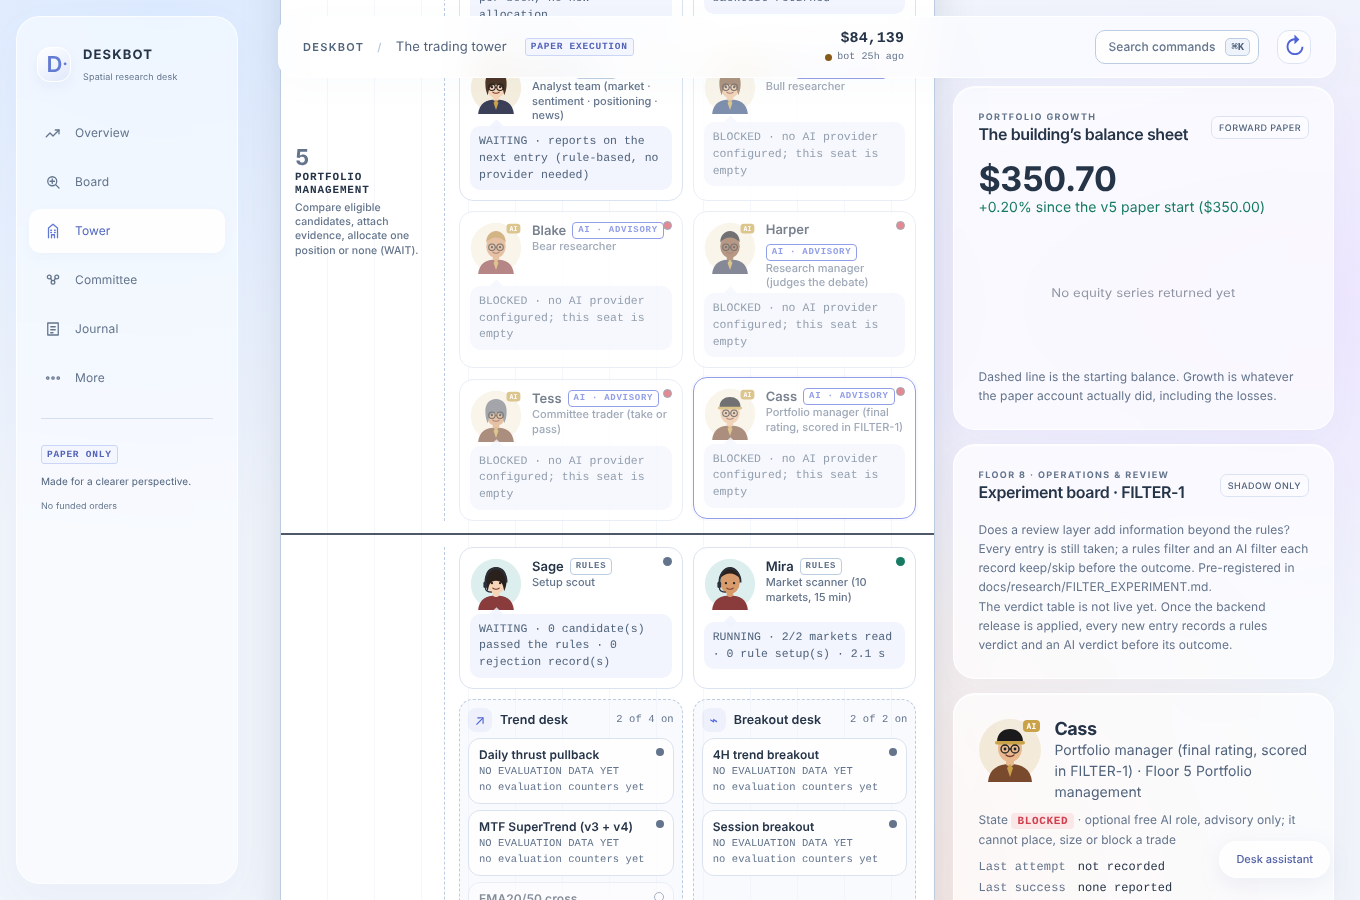
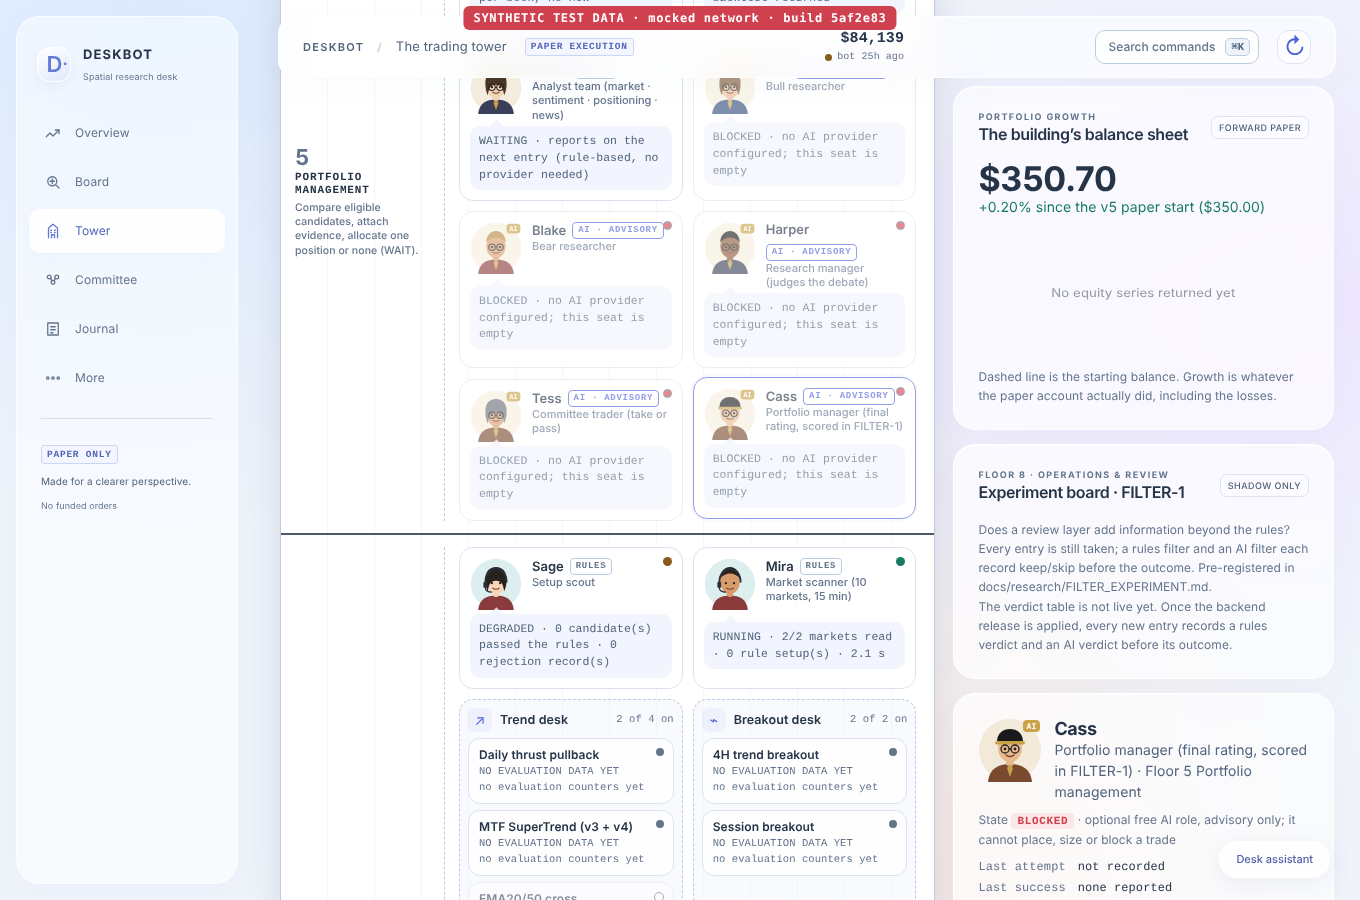
W2 revision: synthetic-labelled screenshots for 5af2e83, TASKS and EVIDENCE_LOG
Claude-Session: https://claude.ai/code/session_01AejtZvfdWPQJRLt5Q4SSCm

diff --git a/docs/control/TASKS.md b/docs/control/TASKS.md
@@ -55,12 +55,13 @@ Next: T007 replay-fidelity mismatch report (PAXG first); T008 atomic/recoverable
 
 ## W1 — Current-state audit and truthful roster (DONE 30 Oct 2026; CURRENT_STATE.md)
 
-## W2 — Theo work log and missing worker desks (IN PR; deploy + additive migration `20261030_scan_work.sql` need owner approval)
-- Objective: every material management action is recorded once. New desks reflect real workers, and their states come from runtime evidence.
-- Contracts: `worklog.ts` (pure diff, keys `<posId>:<action>:<id>`); `writeAgentRows` drops keys already logged (the per-book lease serializes runs); scan rows gain `work` telemetry; status gains `ai` flags (booleans and provider names only).
-- Acceptance: a retry from the same state adds no row and changes no trade (handler test). Missing AI credentials show BLOCKED with the exact reason (tower test). Event-driven waiting shows WAITING. Absent telemetry shows UNKNOWN.
-- Rollback: redeploy the edge entry pinned to `3e25392`. The migration is additive and needs no rollback; the code tolerates the column being absent.
-- Known limits: dedupe is code-level (no DB unique constraint on agent log keys). Last attempt is not recorded per worker; it is shown as "not recorded". Stella still has no backend.
+## W2 — Theo work log and missing worker desks (IN PR #19, revised after review of 33af114; deploy + additive migration need owner approval)
+- Objective: every material management action is recorded exactly once, and every tower state comes from runtime evidence.
+- Identity: exits by bar time; announced trade-manager actions by 5m bar + sequence + kind + text fingerprint; unannounced net field changes by bar + from->to (attributed:false); close; failure by stuck bar.
+- Completeness (narrowed): announced actions and every exit are individual records. Silent TP2/TP3 moves and other unexplained changes are one net record per run. Intermediate values inside one run are not reconstructed.
+- Persistence: records sit in a state outbox saved in the same write as the management, then are inserted with ON CONFLICT (work_key) DO NOTHING. The outbox is cleared only after a confirmed insert; a failed write raises an ERROR event and retries next run. Without the migration the writer falls back to check-then-insert.
+- Acceptance tests: tower_workers_rev.test.ts (issues 1-5), worklog_identity.test.ts (issue 6), desk_handler persistence tests (issue 7), scripts/sql_test/work_key.sh (real PostgreSQL concurrency).
+- Rollback: re-pin the edge entry to 3e25392; Vercel instant-rollback to dpl_2V5vuDPQndNEG94J3mKmCDEYk2U7. The migration is additive and is left in place.
 
 ## W3 — Strategy invocation and veto coverage (NEXT, dependency-ready)
 

diff --git a/docs/control/EVIDENCE_LOG.md b/docs/control/EVIDENCE_LOG.md
@@ -74,3 +74,12 @@ Findings reproduced by the reviewer and fixed: (1) a failed replacement-entry ev
 - Runtime queries (Supabase SQL, read-only): 288/288 equity rows per book in 24 h; cron 0/408 failed; 25 scans since 17:46; ERROR events 0/7d; providers [] on both books; dbv5_decisions 0 (no entry since the provenance release); manager agent rows 1 vs 53 exit events in 7 d.
 - Tests run locally on the W2 branch: `npm run typecheck` pass; `npm test` 223/223 pass (new: tests/worklog.test.ts 5, tests/tower_workers.test.ts 5, desk_handler retry test 1). Browser smokes (Playwright, mocked network, SYNTHETIC status): tower, markets, scanner, workers: 0 page/console errors on desktop 1360×900 and mobile 390×844.
 - Pre-flight: the W2 bundle against the 29 Oct live book snapshots gives the same positions and equity as the v19 bundle on the same input (BTC 339.2622633013888, GOLD 319.00746503674634). The scan action writes only dbv5_scans.
+
+## 30 Oct 2026 - PR #19 revision after review of 33af114 (sandbox evidence; NOT deployed)
+- Reproduction before the fix:
+  - tests/tower_workers_rev.test.ts: 5/5 failed on 33af114, 5/5 pass now.
+  - worklog_identity scenarios: 3/5 failed against the 33af114 worklog (destination-keyed); both retry tests passed there too.
+  - Persistence handler test: failed on a 33af114 worktree (the outage lost the records); passes now.
+- Suite: `npm run typecheck` pass; `npm test` 235/235; `git diff --check` clean. Browser smokes tower/markets/scanner/workers: 0 errors at 1360x900 and 390x844.
+- Real PostgreSQL 16 (scripts/sql_test/work_key.sh): migration applied twice (idempotent). 16 concurrent `insert ... on conflict (work_key) do nothing` with the same key gave 1 row; 3 NULL-key rows coexist.
+- Not verified here: PostgREST's handling of `?columns=...&on_conflict=work_key` against the production schema (no PostgREST locally). It must be checked by a post-migration smoke before release is called verified.

diff --git a/docs/evidence/w2/README.md b/docs/evidence/w2/README.md
@@ -1,2 +1,3 @@
-# W2 screenshots (SYNTHETIC status, mocked network)
-Taken by `scripts/web_smoke/workers.cjs` against this branch build. No AI provider is configured, there is one fresh scan with per-worker telemetry, and there is one synthetic manager work-log row. These images show the UI states, not production data.
+# W2 screenshots: SYNTHETIC TEST DATA
+Taken by `scripts/web_smoke/workers.cjs` against build `5af2e83` (mocked network). Every image carries a red banner reading "SYNTHETIC TEST DATA · mocked network · build 5af2e83".
+The status is synthetic: no AI provider configured, one fresh scan with per-worker telemetry, one ETH derivatives failure, and one manager work-log row. The images show UI states, not production data.
